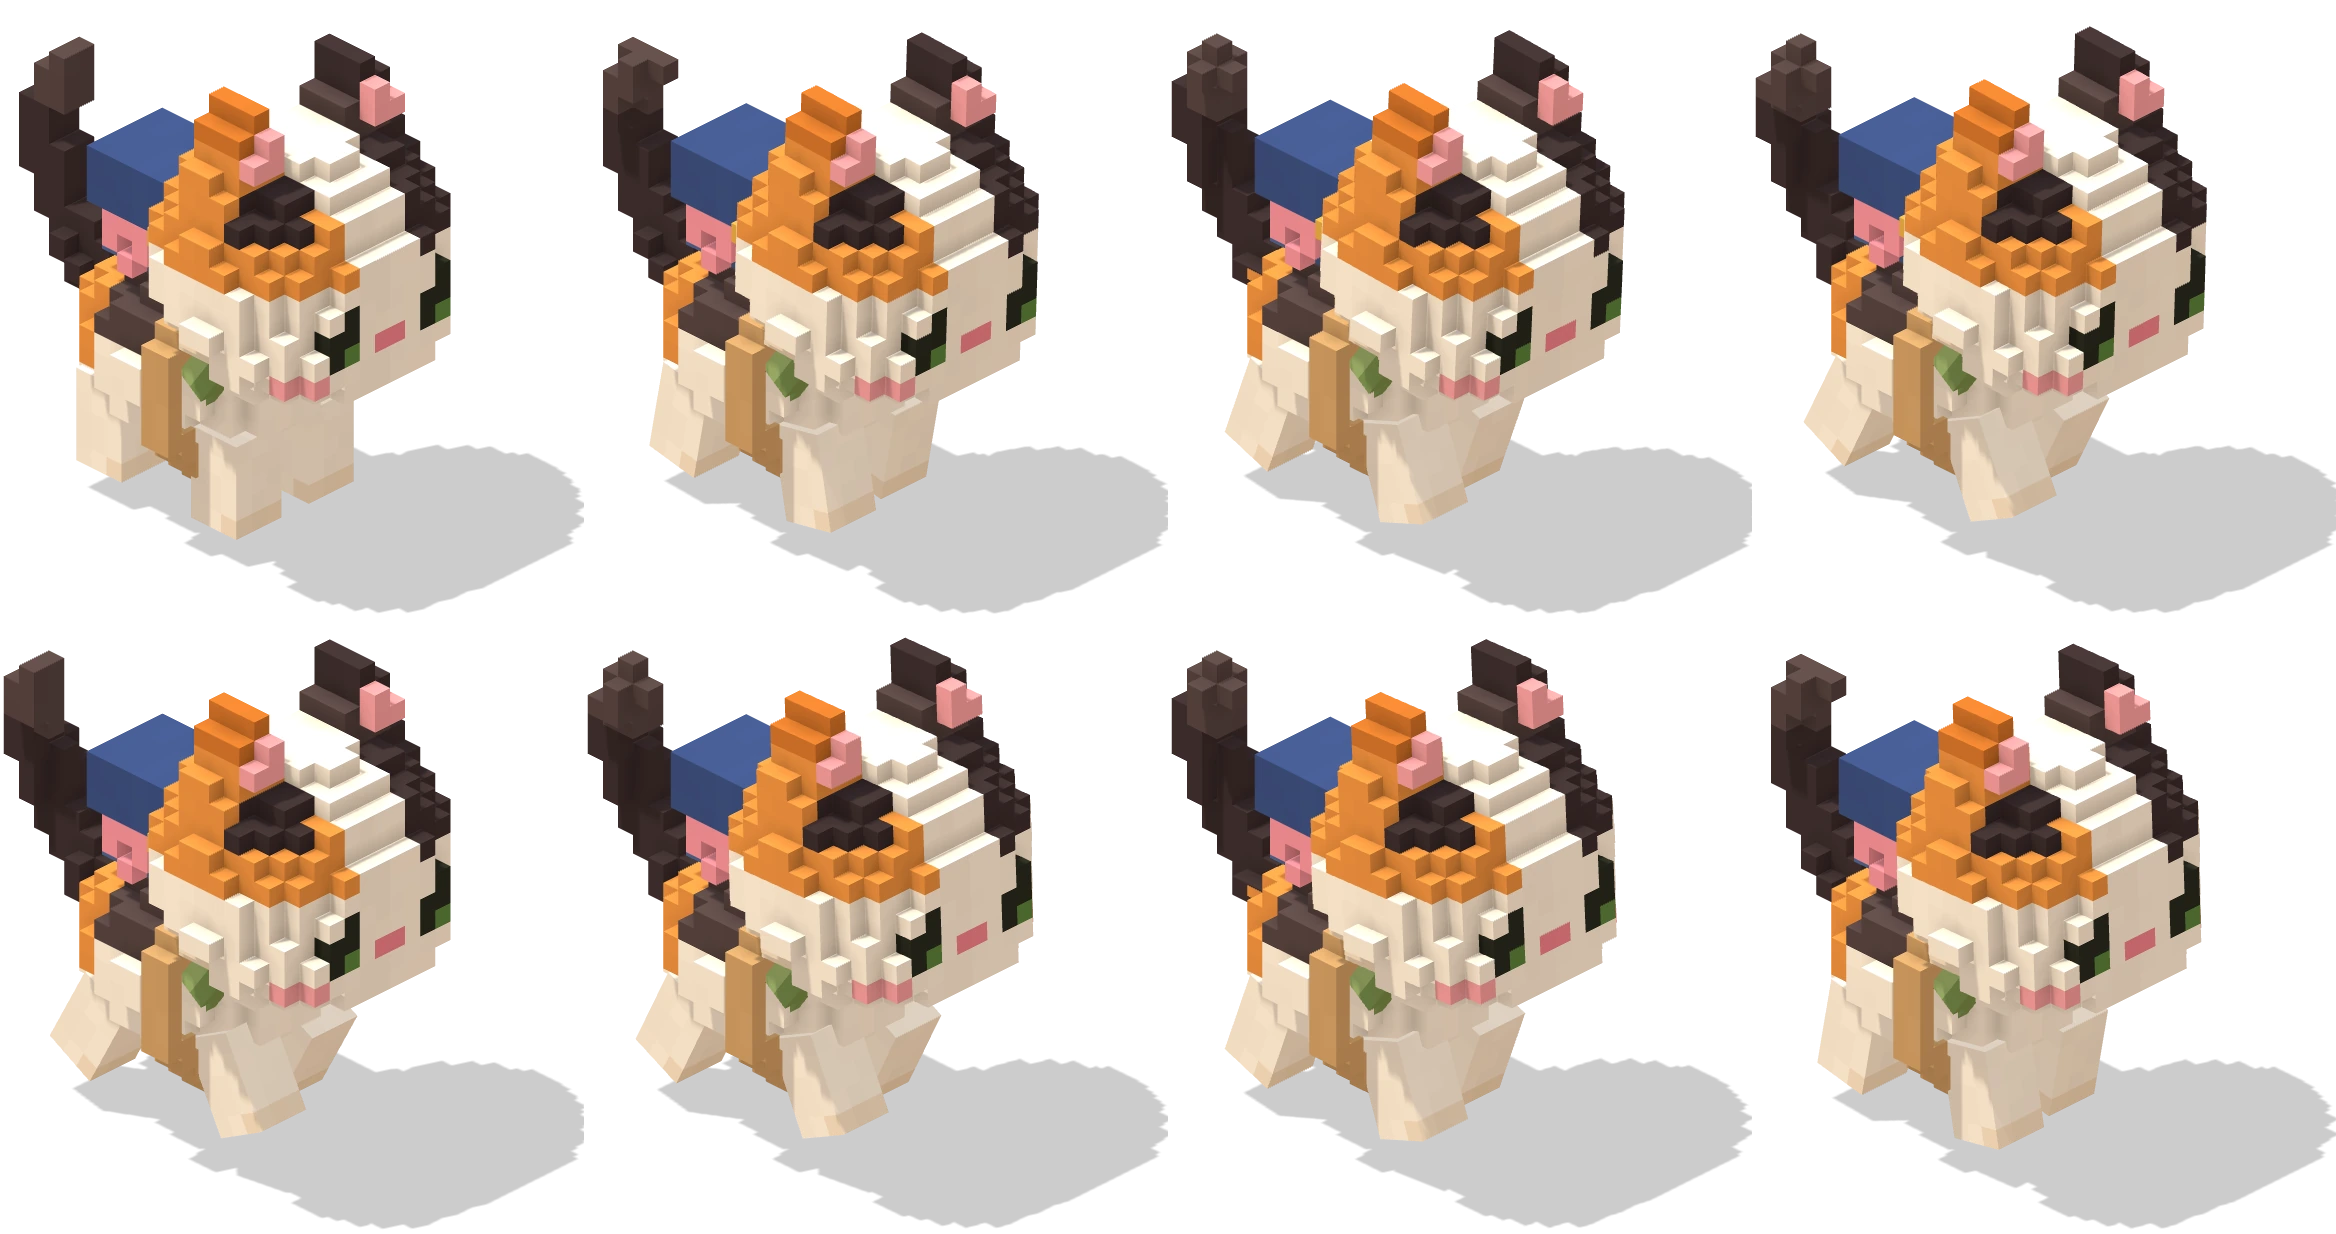
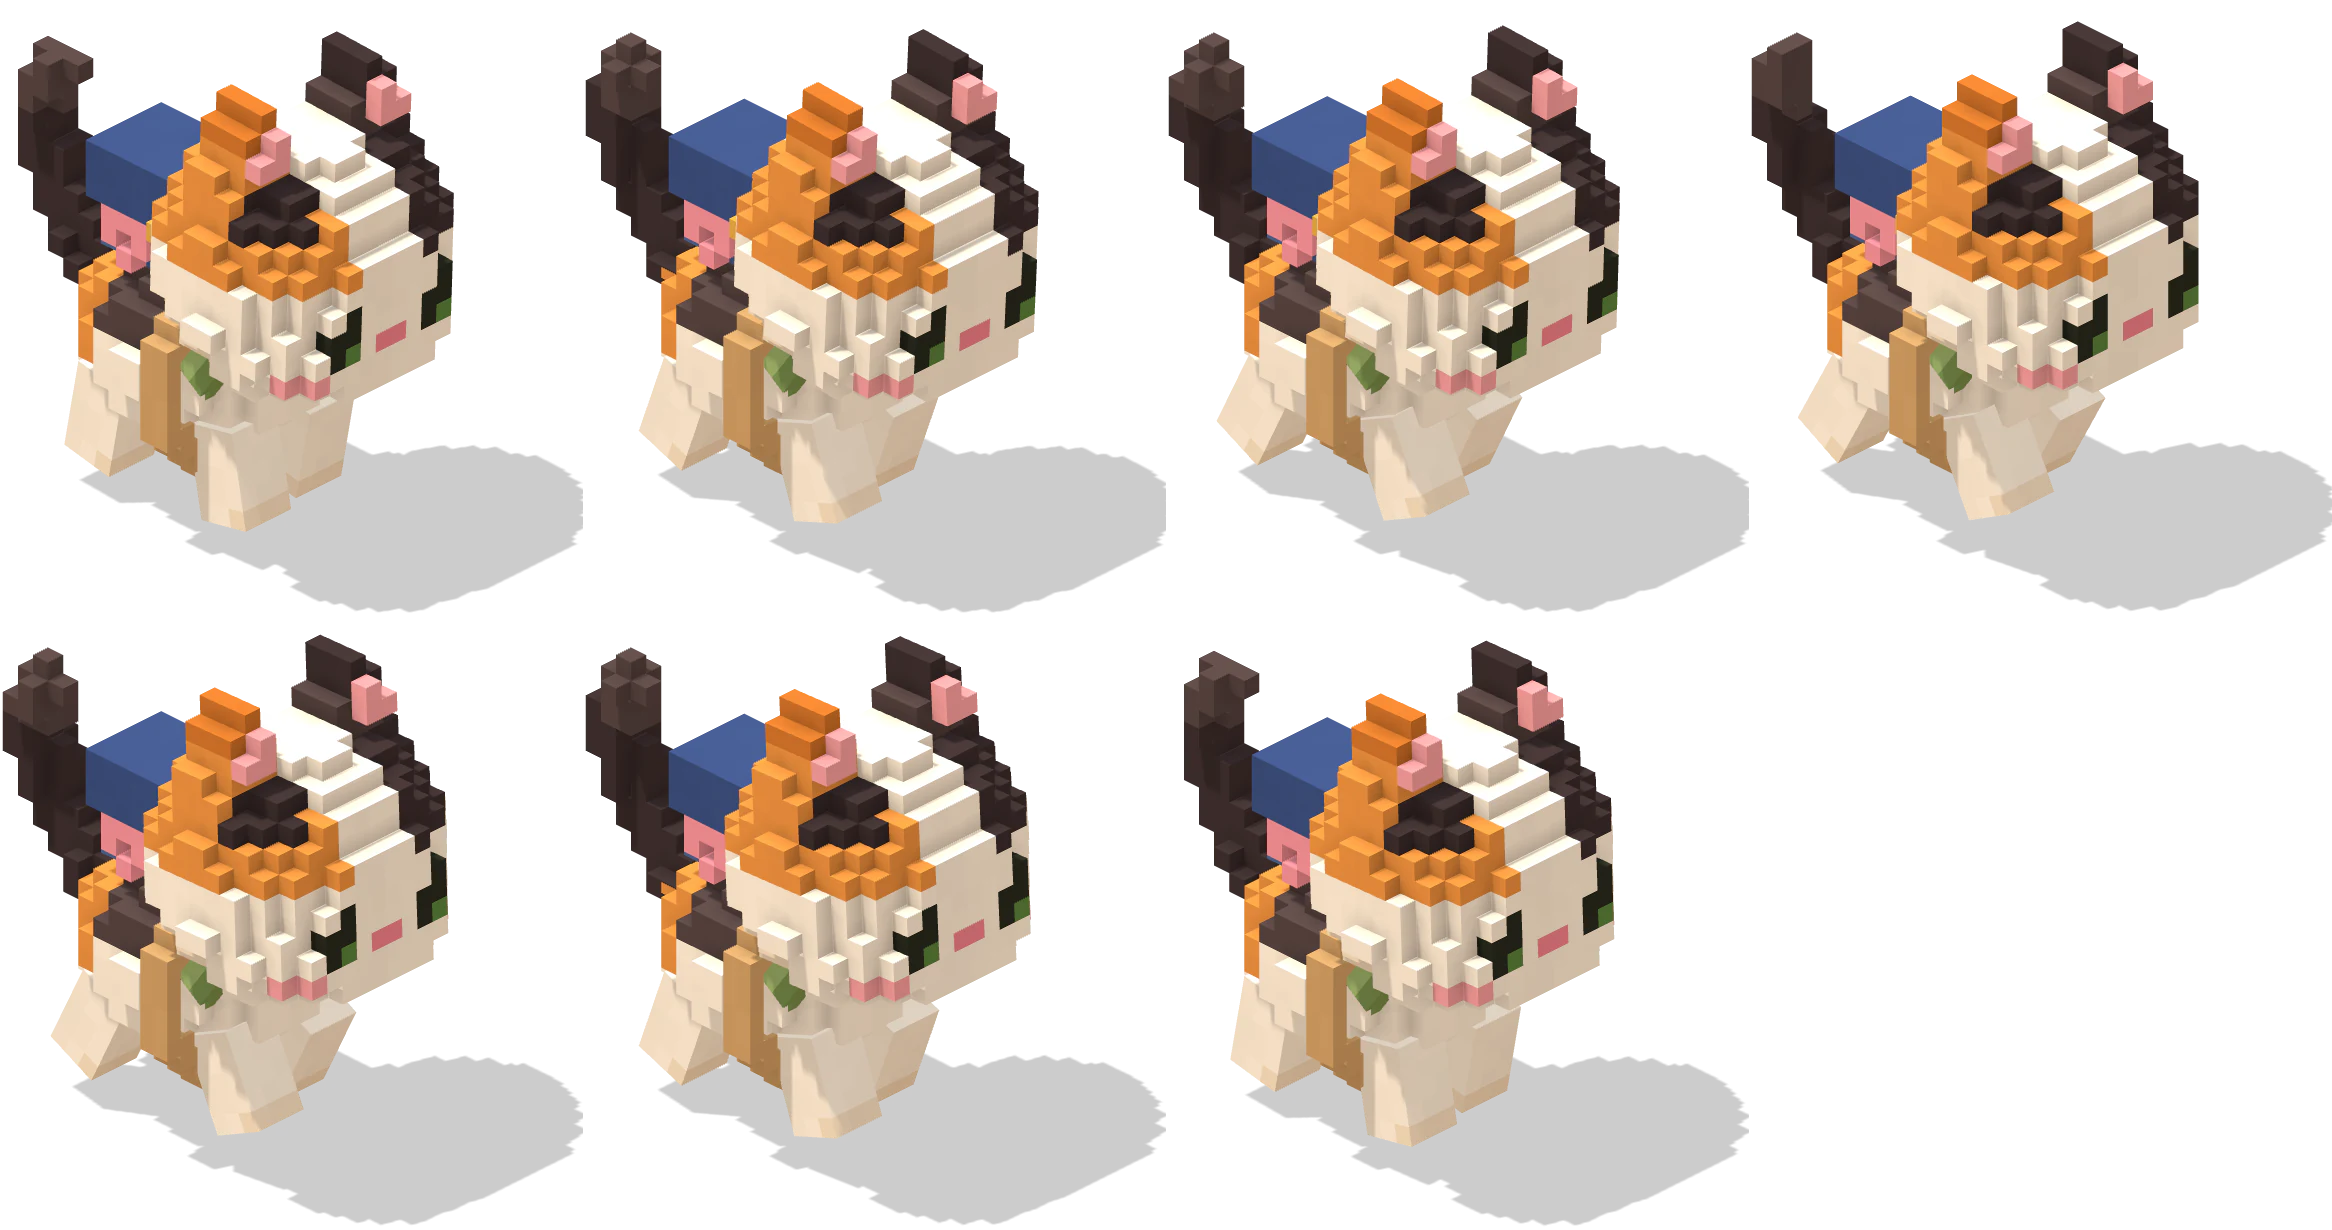
TapTap v54.5: 团子 art halved (5.08 MB -> 2.41 MB), same look
HD frames are stored once when a loop repeats them (map), re-encoded at WebP
q88 with smart subsampling (SSIM >= 0.99 against the lossless renders); the
320 px strips are replaced by one first-frame sheet shown until HD arrives;
PNG/JPG fallbacks are dropped (TapTap's WebViews decode WebP, as the gallery
already requires). Prefetched HD chunks are decoded ahead of their first draw.

diff --git a/mobile/tuanzi.ts b/mobile/tuanzi.ts
@@ -24,22 +24,26 @@ export type TuanziHost={stage:Stage;colors:Colors;top:number;bottom:number;lands
 export type TuanziScreen='nook'|'welcome'|'bag'|'shop'|'mailbox'|'postcard'|'album'|'home';
 
 // ---------------------------------------------------------------- art (团子去旅行/体素团子 pipeline, the owner's own cat)
-// WebP first; the PNG beside each one is the fallback for WebViews that cannot decode WebP.
-const ART={lobby:'/mobile-icons/tuanzi-lobby.webp',lobbyFallback:'/mobile-icons/tuanzi-lobby.png',room:'/mobile-icons/tuanzi-room.webp',roomFallback:'/mobile-icons/tuanzi-room.jpg',
- items:'/mobile-icons/tuanzi-items.webp',itemsFallback:'/mobile-icons/tuanzi-items.png',stickers:'/mobile-icons/tuanzi-stickers.webp',stickersFallback:'/mobile-icons/tuanzi-stickers.png'};
-/** One strip per state (tuanzi-cat-<anim>.webp/.png): 320 px frames covering 36 world units, `cols` per row; the cat's ground
- * point is at (.5, .8127). Only the state on screen is downloaded and decoded. Lobby frames are 224×128, drawn at half size. */
-export const TUANZI_ANIMS={napBare:{frames:24,fps:12,cols:8,loop:true},wait:{frames:24,fps:16,cols:8,loop:true},tap:{frames:20,fps:24,cols:8,loop:false},
- leave:{frames:16,fps:20,cols:8,loop:true},walkBack:{frames:16,fps:20,cols:8,loop:true},back:{frames:16,fps:12,cols:8,loop:true},awayBare:{frames:12,fps:8,cols:8,loop:true}} as const;
+// WebP only: TapTap's WebViews decode it (the gallery pictures are WebP too), so no PNG/JPG copies are shipped.
+const ART={lobby:'/mobile-icons/tuanzi-lobby.webp',room:'/mobile-icons/tuanzi-room.webp',items:'/mobile-icons/tuanzi-items.webp',stickers:'/mobile-icons/tuanzi-stickers.webp'};
+/** Frames cover 36 world units; the cat's ground point is at (.5, .8127). Loop lengths are frames / fps. */
+export const TUANZI_ANIMS={napBare:{frames:24,fps:12,loop:true},wait:{frames:24,fps:16,loop:true},tap:{frames:20,fps:24,loop:false},
+ leave:{frames:16,fps:20,loop:true},walkBack:{frames:16,fps:20,loop:true},back:{frames:16,fps:12,loop:true},awayBare:{frames:12,fps:8,loop:true}} as const;
 type Anim=keyof typeof TUANZI_ANIMS;
-// Cat strips are not pinned in the image cache (unlike the other /mobile-icons art): states not on screen can be dropped.
-const strip=(anim:Anim)=>'assets/ui/tuanzi-cat-'+anim;
-/** The same frames at 768 px (2.4×, about 1:1 on a dpr-3 phone), cropped to each animation's content [x,y,w,h] and split into
- * chunks of at most 4 megapixels (tuanzi-cat-<anim>-hd<k>.webp, `per` frames, `cols` per row). A frame is drawn from its chunk
- * once that has arrived, from the 320 px strip until then. */
-const HD=768,TUANZI_HD:Record<Anim,{crop:readonly [number,number,number,number];per:number;cols:number;chunks:number}>={napBare:{crop:[147,0,488,723],per:10,cols:5,chunks:3},
- wait:{crop:[191,137,523,568],per:12,cols:4,chunks:2},tap:{crop:[205,0,504,711],per:10,cols:5,chunks:2},leave:{crop:[184,124,584,617],per:8,cols:4,chunks:2},
- walkBack:{crop:[184,124,584,617],per:8,cols:4,chunks:2},back:{crop:[197,138,539,569],per:12,cols:4,chunks:2},awayBare:{crop:[269,517,244,168],per:10,cols:10,chunks:2}};
+// Cat art is not pinned in the image cache (unlike the other /mobile-icons art): states not on screen can be dropped.
+const catPath=(name:string)=>'assets/ui/tuanzi-cat-'+name+'.webp';
+/** First frame of every state at 320 px in one small sheet (FIRST order): shown at once, while the HD frames arrive. */
+const FIRST:readonly Anim[]=['napBare','wait','tap','leave','walkBack','back','awayBare'];
+/** 768 px frames (about 1:1 on a dpr-3 phone), cropped to each animation's content [x,y,w,h], repeated frames stored once
+ * (`map`: frame → stored frame, null when every frame is distinct), split into chunks of at most 4 megapixels
+ * (tuanzi-cat-<anim>-hd<k>.webp, `per` stored frames, `cols` per row). */
+const HD=768,TUANZI_HD:Record<Anim,{crop:readonly [number,number,number,number];per:number;cols:number;chunks:number;map:readonly number[]|null}>={napBare:{crop:[148,0,486,722],per:10,cols:5,chunks:3,map:null},
+ wait:{crop:[192,138,521,566],per:12,cols:4,chunks:2,map:[0,1,2,3,4,5,6,5,4,3,2,1,0,7,8,9,10,11,12,11,10,9,13,14]},
+ tap:{crop:[206,0,502,710],per:10,cols:5,chunks:2,map:[0,1,2,3,4,5,6,7,8,9,10,11,12,13,14,15,16,17,17,18]},
+ leave:{crop:[185,125,583,615],per:8,cols:4,chunks:2,map:[0,1,2,3,4,5,6,7,0,8,9,10,11,12,13,14]},
+ walkBack:{crop:[185,125,583,615],per:8,cols:4,chunks:2,map:[0,1,2,3,4,5,6,7,0,8,9,10,11,12,13,14]},
+ back:{crop:[198,139,537,567],per:8,cols:4,chunks:2,map:[0,1,2,3,4,5,2,1,0,6,7,8,9,10,7,6]},
+ awayBare:{crop:[270,518,242,166],per:7,cols:7,chunks:1,map:[0,1,2,3,2,1,0,4,5,6,5,4]}};
 /** Lobby cut: 336×192 frames (1:1 at dpr 3 when drawn at 112×64). */
 export const TUANZI_LOBBY={nap:{y:0,frames:10,fps:6},away:{y:192,frames:6,fps:4}} as const;
 const LOBBY_W=336,LOBBY_H=192;
@@ -150,13 +154,13 @@ export class TuanziFeature{
   }
  }
  private icon(h:TuanziHost,id:string,r:Rect,fade=false){
-  const s=h.stage,index=ICONS.indexOf(id),atlas=index>=0?this.art(s,ART.items,ART.itemsFallback):null;
+  const s=h.stage,index=ICONS.indexOf(id),atlas=index>=0?this.art(s,ART.items):null;
   if(atlas){const size=Math.min(r.w,r.h),c=s.ctx;c.save();if(fade)c.globalAlpha*=.35;c.imageSmoothingEnabled=true;c.drawImage(atlas,(index%8)*128,Math.floor(index/8)*128,128,128,r.x+(r.w-size)/2,r.y+(r.h-size)/2,size,size);c.restore();return;}
   const fallback=(['onigiri','bento','deluxe','umbrella','ticket','tent','bell','knot','fish','envelope','bag','paw','shell'] as string[]).includes(id)?id:id==='seashell'?'shell':'paw';
   drawTravelIcon(s.ctx,fallback as TravelIcon,r,fade);
  }
  private sticker(h:TuanziHost,id:string,r:Rect){
-  const s=h.stage,index=STICKERS.indexOf(id),sheet=this.art(s,ART.stickers,ART.stickersFallback);
+  const s=h.stage,index=STICKERS.indexOf(id),sheet=this.art(s,ART.stickers);
   if(sheet&&index>=0){const size=Math.min(r.w,r.h);s.ctx.drawImage(sheet,index*160,0,160,160,r.x+(r.w-size)/2,r.y+(r.h-size)/2,size,size);}
   else drawTravelIcon(s.ctx,'paw',r);
  }
@@ -164,18 +168,25 @@ export class TuanziFeature{
  private frameOf(anim:Anim,elapsed:number){const a=TUANZI_ANIMS[anim],n=Math.floor(Math.max(0,elapsed)*a.fps/1000);return a.loop?n%a.frames:Math.min(n,a.frames-1);}
  /** Milliseconds until the next frame of `anim` is due. */
  private nextFrameIn(anim:Anim,elapsed:number){const step=1000/TUANZI_ANIMS[anim].fps;return Math.max(4,step-(Math.max(0,elapsed)%step));}
- private catArt(s:Stage,anim:Anim){return this.art(s,strip(anim)+'.webp',strip(anim)+'.png');}
- /** Frame `frame` of `anim` filling the square (left, top, size): the HD chunk when it is here, else the 320 px strip.
-  * HD chunks are asked for only once the 320 px strip is showing, so the first picture is never held up. */
+ private firstArt(s:Stage){return this.art(s,catPath('first'));}
+ private hdArt(s:Stage,anim:Anim,chunk:number){
+  const im=this.art(s,catPath(anim+'-hd'+chunk));
+  // Decode a fetched chunk off the main thread now, so its first draw does not stall a frame.
+  if(im&&!this.decoded.has(im)){this.decoded.add(im);void im.decode?.().catch(()=>{});}
+  return im;
+ }
+ private decoded=new WeakSet<HTMLImageElement>();
+ /** Frame `frame` of `anim` filling the square (left, top, size): from its HD chunk when that is here, else the state's first
+  * frame from the small 320 px sheet. HD chunks are asked for only once that sheet is in, so the first picture is never held up. */
  private blit(s:Stage,anim:Anim,frame:number,left:number,top:number,size:number,snap=false){
-  const low=this.catArt(s,anim);if(!low)return false;
+  const low=this.firstArt(s);if(!low)return false;
   const hd=TUANZI_HD[anim],c=s.ctx,scale=c.getTransform().a||1;
   if(snap){left=Math.round(left*scale)/scale;top=Math.round(top*scale)/scale;}
-  for(let k=0;k<hd.chunks;k++)this.art(s,strip(anim)+'-hd'+k+'.webp');
-  const chunk=Math.floor(frame/hd.per),im=this.art(s,strip(anim)+'-hd'+chunk+'.webp');
+  for(let k=0;k<hd.chunks;k++)this.hdArt(s,anim,k);
+  const stored=hd.map?.[frame]??frame,chunk=Math.floor(stored/hd.per),im=this.hdArt(s,anim,chunk);
   c.save();c.imageSmoothingEnabled=true;c.imageSmoothingQuality='high';
-  if(im){const j=frame-chunk*hd.per,[x0,y0,cw,ch]=hd.crop,k=size/HD;c.drawImage(im,(j%hd.cols)*cw,Math.floor(j/hd.cols)*ch,cw,ch,left+x0*k,top+y0*k,cw*k,ch*k);}
-  else{const a=TUANZI_ANIMS[anim];c.drawImage(low,(frame%a.cols)*FRAME,Math.floor(frame/a.cols)*FRAME,FRAME,FRAME,left,top,size,size);}
+  if(im){const j=stored-chunk*hd.per,[x0,y0,cw,ch]=hd.crop,k=size/HD;c.drawImage(im,(j%hd.cols)*cw,Math.floor(j/hd.cols)*ch,cw,ch,left+x0*k,top+y0*k,cw*k,ch*k);}
+  else c.drawImage(low,FIRST.indexOf(anim)*FRAME,0,FRAME,FRAME,left,top,size,size);
   c.restore();return true;
  }
  /** One cat frame with its ground point at (x, y); ppu = screen px per world unit. Walking keeps fractional positions;
@@ -184,7 +195,7 @@ export class TuanziFeature{
   const size=UNITS*ppu;return this.blit(h.stage,anim,frame,x-size/2,y-size*GROUND,size,anim!=='leave'&&anim!=='walkBack');
  }
  /** Starts downloading the strips the nook is about to need (images stay cached for the session). */
- warm(h:TuanziHost,anims:Anim[],hd=false){for(const anim of anims){this.catArt(h.stage,anim);if(hd)for(let k=0;k<TUANZI_HD[anim].chunks;k++)this.art(h.stage,strip(anim)+'-hd'+k+'.webp');}}
+ warm(h:TuanziHost,anims:Anim[],hd=false){this.firstArt(h.stage);for(const anim of anims)if(hd)for(let k=0;k<TUANZI_HD[anim].chunks;k++)this.hdArt(h.stage,anim,k);}
  private drawCat(h:TuanziHost,cushion:{x:number;y:number},ppu:number,scene:Rect){
   const now=Date.now();
   const tap=TUANZI_ANIMS.tap;if(this.cat==='tap'&&now-this.catAt>tap.frames*1000/tap.fps+300){this.cat=this.catBefore;this.catAt=now;}
@@ -281,7 +292,7 @@ export class TuanziFeature{
   const scene={x:0,y:0,w:s.w,h:s.h},k=Math.max(s.w/ROOM_W,s.h/ROOM_H*(h.landscape?1:.88)),dw=ROOM_W*k,dh=ROOM_H*k;
   const dx=Math.round(Math.min(0,Math.max(s.w-dw,s.w/2-dw*(h.landscape?.665:.64)))),dy=Math.round(dh<s.h?s.h-dh:Math.min(0,Math.max(s.h-dh,s.h/2-dh*.47)));
   const at=(nx:number,ny:number)=>({x:dx+nx*dw,y:dy+ny*dh});
-  const im=this.art(s,ART.room,ART.roomFallback),paint=(g:CanvasRenderingContext2D)=>{
+  const im=this.art(s,ART.room),paint=(g:CanvasRenderingContext2D)=>{
    if(dy>0){const corner=Math.round(dx+ROOM_CORNER*dw);g.fillStyle='#e6c69c';g.fillRect(0,0,s.w,dy+1);g.fillStyle='#be9d79';if(corner>0)g.fillRect(0,0,corner,dy+1);}
    if(im){g.save();g.imageSmoothingEnabled=true;g.imageSmoothingQuality='high';g.drawImage(im,dx,dy,dw,dh);g.restore();}};
   const scale=s.ctx.getTransform().a||1,key=[s.w,s.h,scale,dx,dy,dw,!!im].join(':');
@@ -454,14 +465,14 @@ export class TuanziFeature{
   // Before story 1-2 the corner says what brings 团子 in and leads to the story.
   if(this.view?.locked){
    const s=h.stage,c=h.colors,lock=this.view.unlockLevelId;s.frame(r,'button-linen-normal');s.hit(r,story??open);
-   const art={x:r.x+4,y:r.y+2,w:120,h:r.h-4},sheet=this.art(s,ART.lobby,ART.lobbyFallback),anim=TUANZI_LOBBY.away;
+   const art={x:r.x+4,y:r.y+2,w:120,h:r.h-4},sheet=this.art(s,ART.lobby),anim=TUANZI_LOBBY.away;
    if(sheet){const w=112,hh=64;s.ctx.save();s.ctx.globalAlpha=.55;s.ctx.imageSmoothingEnabled=true;s.ctx.imageSmoothingQuality='high';s.ctx.drawImage(sheet,0,anim.y,LOBBY_W,LOBBY_H,Math.round(art.x+(art.w-w)/2),Math.round(r.y+r.h-hh-4),w,hh);s.ctx.restore();}
    const tx=art.x+art.w+6,textW=r.x+r.w-10-tx;
    s.text('团子的小窝',tx,r.y+(r.h>70?14:9),15,c.ink,800,textW);s.text('通关'+levelName(lock)+'，团子就会搬进来',tx,r.y+(r.h>70?38:31),12,c.muted,600,textW);return;
   }
   const v=this.open;if(!v)return;
   const s=h.stage,c=h.colors;s.frame(r,'button-linen-normal');s.hit(r,open);
-  const art={x:r.x+4,y:r.y+2,w:120,h:r.h-4},away=v.status==='away',anim=away?TUANZI_LOBBY.away:TUANZI_LOBBY.nap,sheet=this.art(s,ART.lobby,ART.lobbyFallback);
+  const art={x:r.x+4,y:r.y+2,w:120,h:r.h-4},away=v.status==='away',anim=away?TUANZI_LOBBY.away:TUANZI_LOBBY.nap,sheet=this.art(s,ART.lobby);
   if(sheet){h.animate();const frame=Math.floor(Date.now()*anim.fps/1000)%anim.frames,w=112,hh=64;s.ctx.save();s.ctx.imageSmoothingEnabled=true;s.ctx.imageSmoothingQuality='high';s.ctx.drawImage(sheet,frame*LOBBY_W,anim.y,LOBBY_W,LOBBY_H,Math.round(art.x+(art.w-w)/2),Math.round(r.y+r.h-hh-4),w,hh);s.ctx.restore();}
   const tx=art.x+art.w+6,right=r.x+r.w-10,textW=right-tx-(v.sill.portions?84:46);
   const line=away?'团子出门旅行了':v.trip?.returned&&!this.homeSeen(v)?'团子回来啦，带了东西':v.pack?.food?'团子装好包，在等你走开':'团子在垫子上打盹';
@@ -472,7 +483,7 @@ export class TuanziFeature{
   const now=Date.now();if(this.warmAt===0)this.warmAt=now+2500;
   // Started once; then touched on every frame, or the image cache would cancel the (unpinned) downloads.
   if(!this.warming&&(now<this.warmAt||!h.stage.imagesIdle()))h.animate(Math.max(500,this.warmAt-now));
-  else{this.warming=true;this.art(s,ART.room,ART.roomFallback);this.art(s,ART.items,ART.itemsFallback);this.warm(h,[away?'awayBare':v.trip?.returned&&!this.homeSeen(v)?'walkBack':v.pack?.food?'wait':'napBare'],true);}
+  else{this.warming=true;this.art(s,ART.room);this.art(s,ART.items);this.warm(h,[away?'awayBare':v.trip?.returned&&!this.homeSeen(v)?'walkBack':v.pack?.food?'wait':'napBare'],true);}
  }
  private warmAt=0;private warming=false;
 }

diff --git a/mobile/app.ts b/mobile/app.ts
@@ -77,7 +77,7 @@ function beijingMonthDay(time:number){const day=new Date(time+8*3600000);return 
 const seatLimit=(room:{maxPlayers?:number}|null|undefined)=>room?.maxPlayers??8;
 const VIEW_LOCK_KEY='jigsaw:room-view-lock:v1',LOCK_BUTTON_KEY='jigsaw:room-lock-button:v1',MINIMAP_KEY='jigsaw:room-minimap:v1';
 /** Shown under 更多 so testers can tell which package they are running; bump it with every TapTap package. */
-const CLIENT_PACKAGE_VERSION='v54.4';
+const CLIENT_PACKAGE_VERSION='v54.5';
 function inside(r:Rect,x:number,y:number){return x>=r.x&&x<=r.x+r.w&&y>=r.y&&y<=r.y+r.h;}
 function roomListKey(rooms:RoomListing[]){return JSON.stringify(rooms.map(room=>[room.id,room.title,room.imageId,room.thumbSrc??room.photo?.thumbSrc??photoMap.get(room.imageId)?.thumbSrc,room.actualPieces??room.pieces,room.placed,room.players,seatLimit(room),room.acceptingNew!==false,!!room.completed]));}
 function messageListKey(messages:PublicMessage[]){return JSON.stringify(messages.map(item=>[item.id,item.name,item.text,item.playerId,item.code,item.level??0,item.sentAt??0]));}
